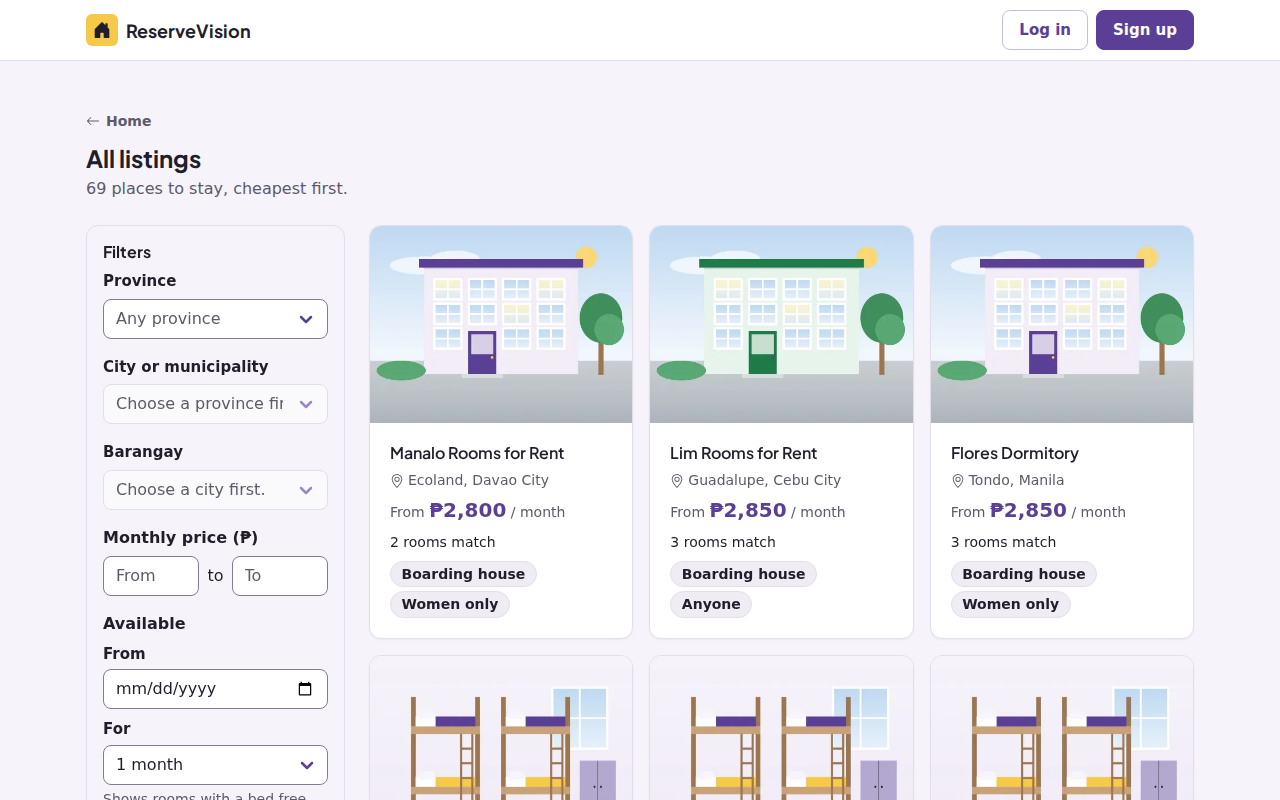
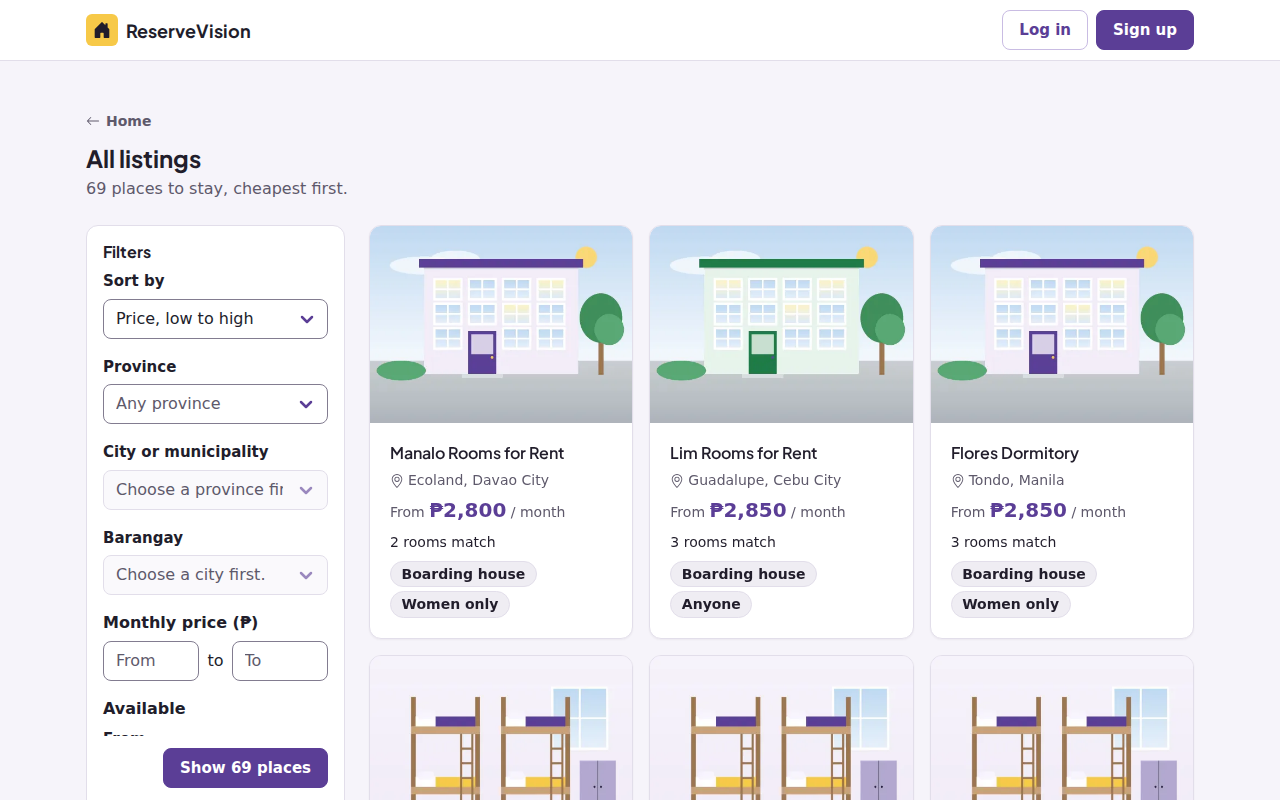
5.2: sort first in the filters, apply bar matches the panel and stays on screen

diff --git a/resources/js/Components/FilterSheet.tsx b/resources/js/Components/FilterSheet.tsx
@@ -112,6 +112,14 @@ export default function FilterSheet({ values: initial, options, window: bookingW
 
     const body = (
         <form action="/listings" method="get" onSubmit={submit} className="filter-form" aria-label="Search filters">
+            <Form.Group controlId="filter-sort" className="mb-3">
+                <Form.Label>Sort by</Form.Label>
+                <Form.Select name="sort" value={values.sort} onChange={(e) => set('sort', e.target.value)}>
+                    <option value="price">Price, low to high</option>
+                    <option value="newest">Newest</option>
+                </Form.Select>
+            </Form.Group>
+
             <PlaceFields values={values} options={options} enhanced={enhanced} set={set} setValues={setValues} />
 
             <fieldset className="mb-3">
@@ -180,14 +188,6 @@ export default function FilterSheet({ values: initial, options, window: bookingW
                 ))}
                 <Form.Text className="d-block">Places that have all the ones you tick.</Form.Text>
             </fieldset>
-
-            <Form.Group controlId="filter-sort" className="mb-3">
-                <Form.Label>Sort by</Form.Label>
-                <Form.Select name="sort" value={values.sort} onChange={(e) => set('sort', e.target.value)}>
-                    <option value="price">Price, low to high</option>
-                    <option value="newest">Newest</option>
-                </Form.Select>
-            </Form.Group>
 
             <div className="button-row filter-form__actions">
                 {active > 0 && (

diff --git a/resources/scss/_components.scss b/resources/scss/_components.scss
@@ -517,7 +517,6 @@ a {
 
 .form-actions {
   padding: 1rem 1.25rem;
-  border-top: 1px solid $rv-border;
   border-radius: 0 0 calc(#{$rv-radius-lg} - 1px) calc(#{$rv-radius-lg} - 1px);
   background-color: $rv-surface-muted;
 
@@ -782,7 +781,6 @@ a {
 
 // A quiet footer: the page ends, it doesn't shout.
 .site-footer {
-  border-top: 1px solid $rv-border;
   color: $rv-muted;
 }
 
@@ -929,16 +927,13 @@ a {
 }
 
 @include media-breakpoint-up(lg) {
-  // Inline sidebar: Bootstrap makes the offcanvas body a flex row here, and the sheet's own height must not apply.
+  // Inline sidebar. Bootstrap makes the offcanvas transparent and its body a flex row here. It scrolls with the
+  // page (no own scroll box), so the action bar can stick to the bottom of the screen.
   .filter-sheet.offcanvas-lg {
-    position: sticky;
-    top: 1rem;
     height: auto;
-    max-height: calc(100vh - 2rem);
-    overflow-y: auto;
-    border: 1px solid $rv-border;
+    border: 1px solid $rv-border !important;
     border-radius: $rv-radius-lg;
-    background-color: $rv-surface;
+    background-color: $rv-surface !important;
   }
 
   .filter-sheet .offcanvas-body.filter-panel {
@@ -1466,7 +1461,6 @@ $rv-swatches: (
   gap: 1rem;
   padding: 0.75rem 1rem calc(0.75rem + env(safe-area-inset-bottom));
   background-color: $rv-surface;
-  border-top: 1px solid $rv-border;
   box-shadow: 0 -2px 8px rgba(0, 0, 0, 0.08);
 }
 
